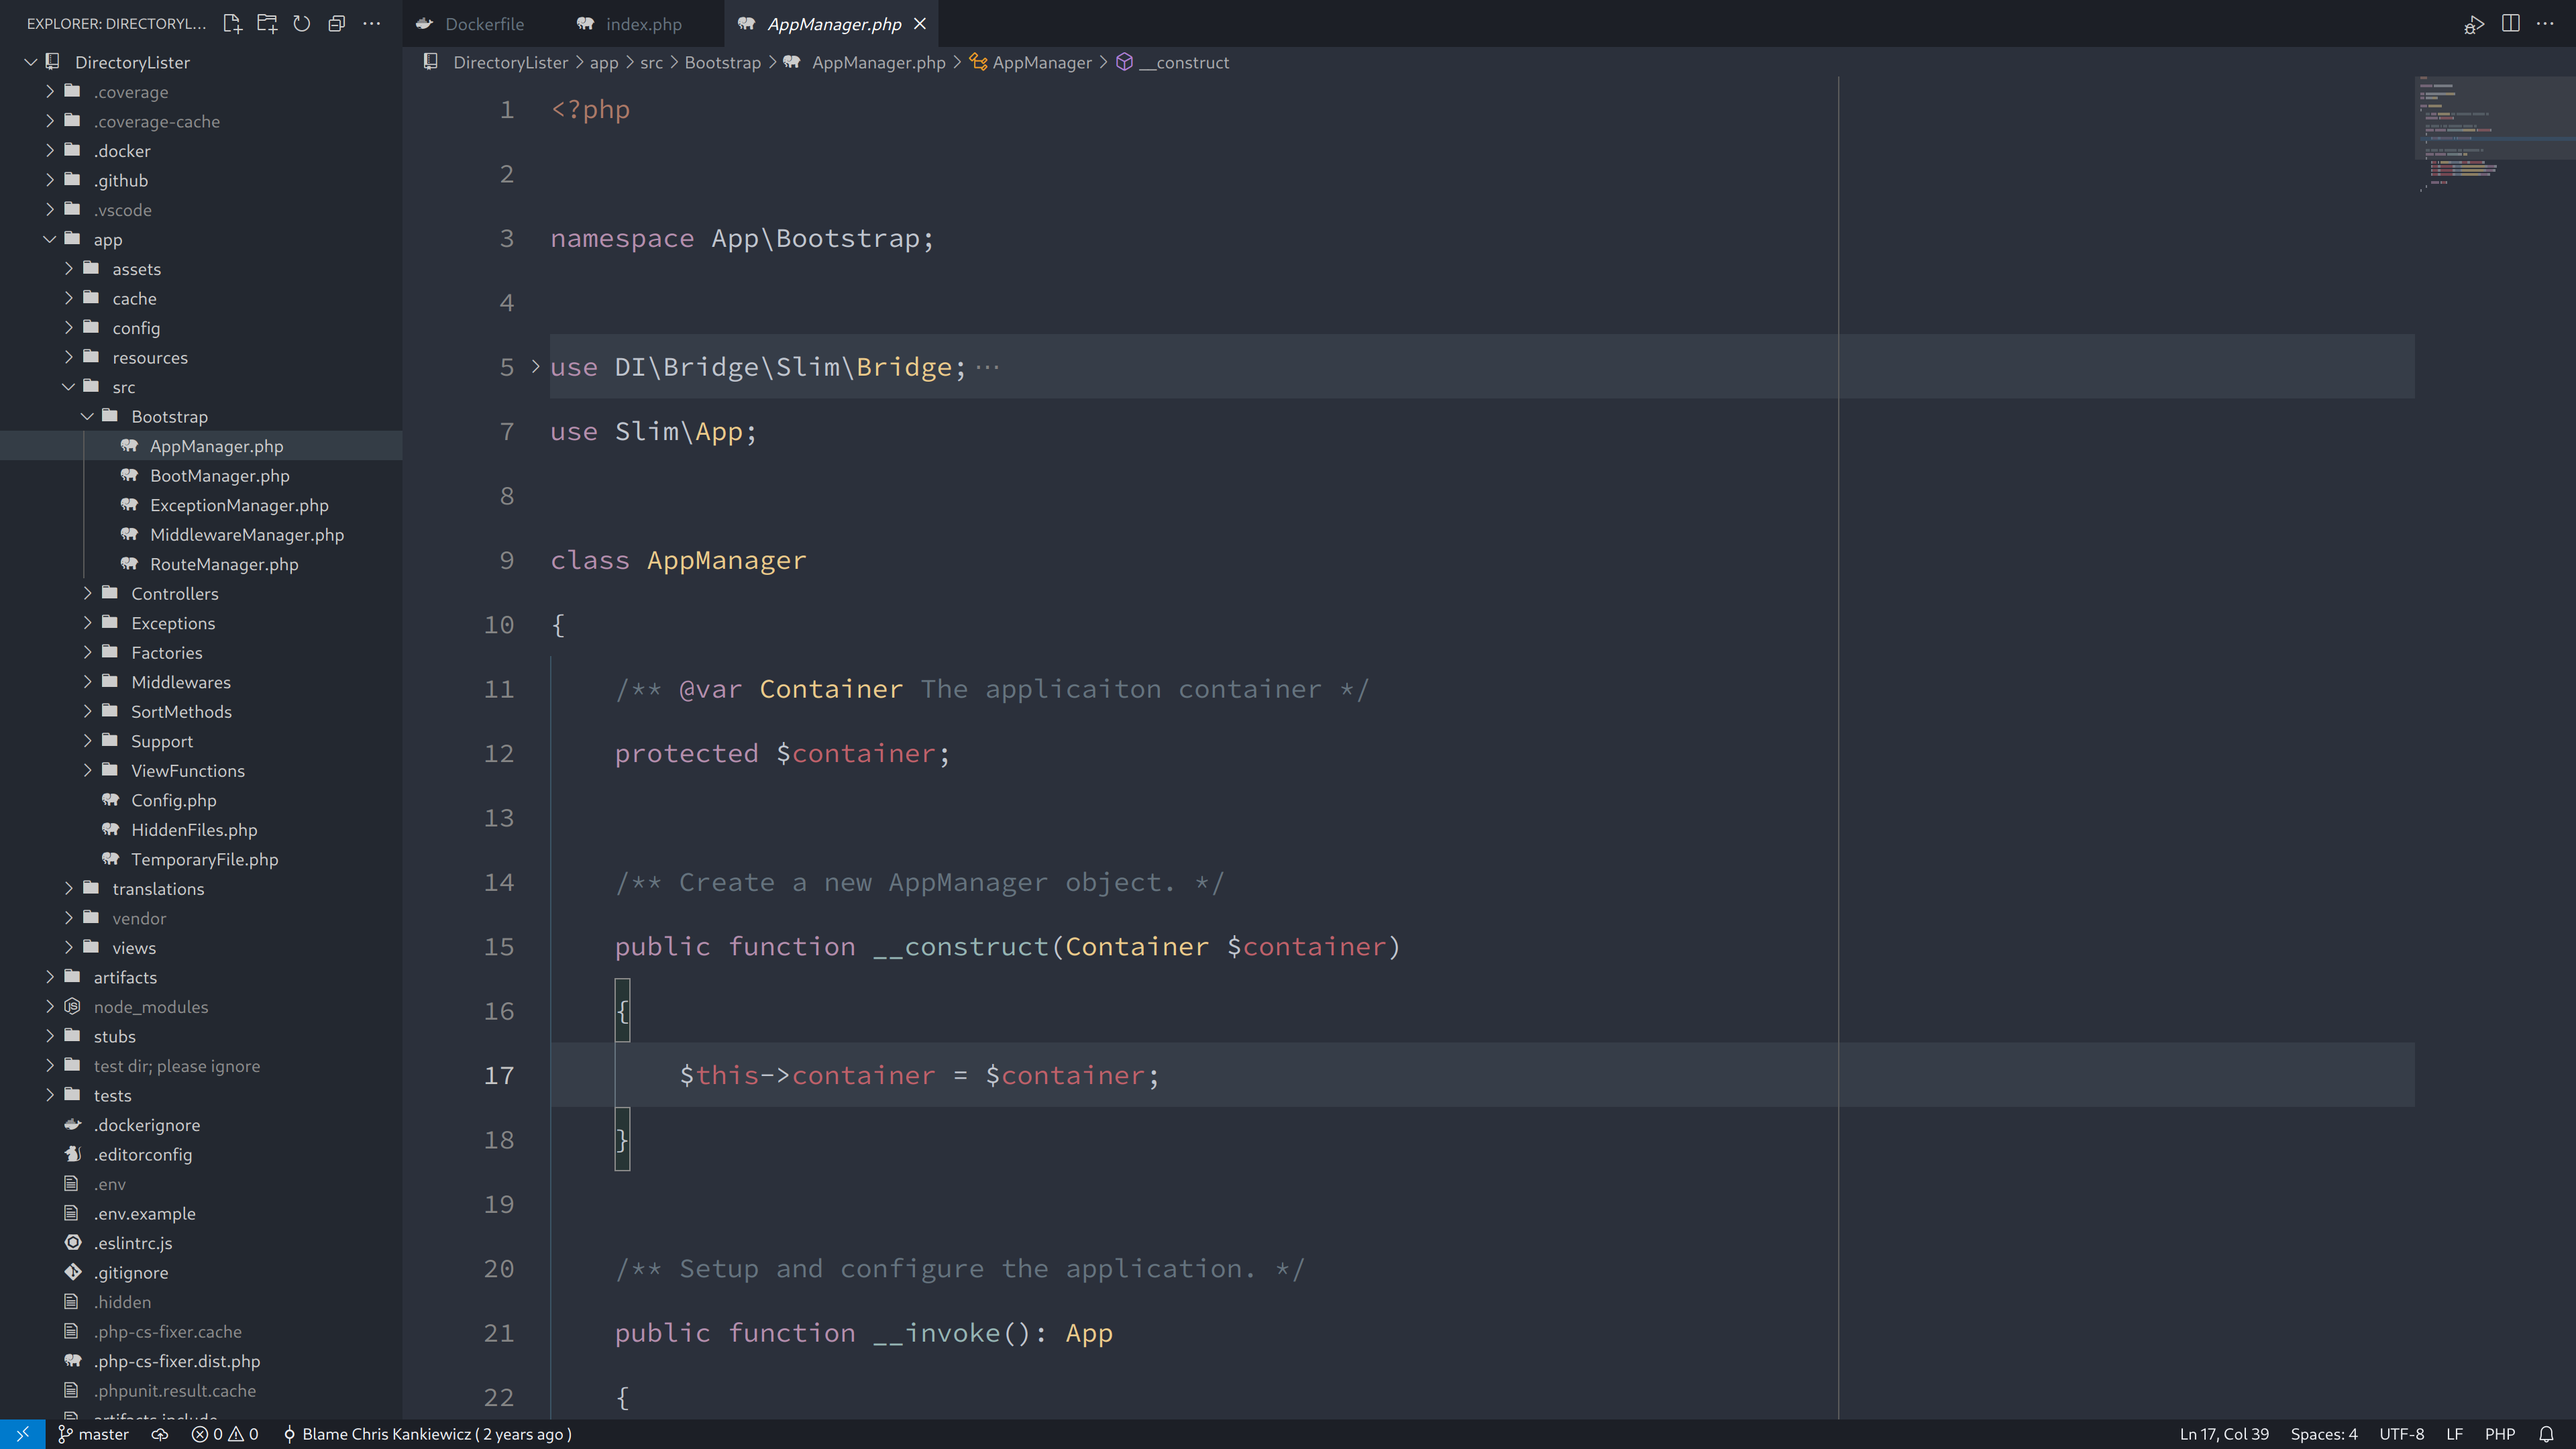
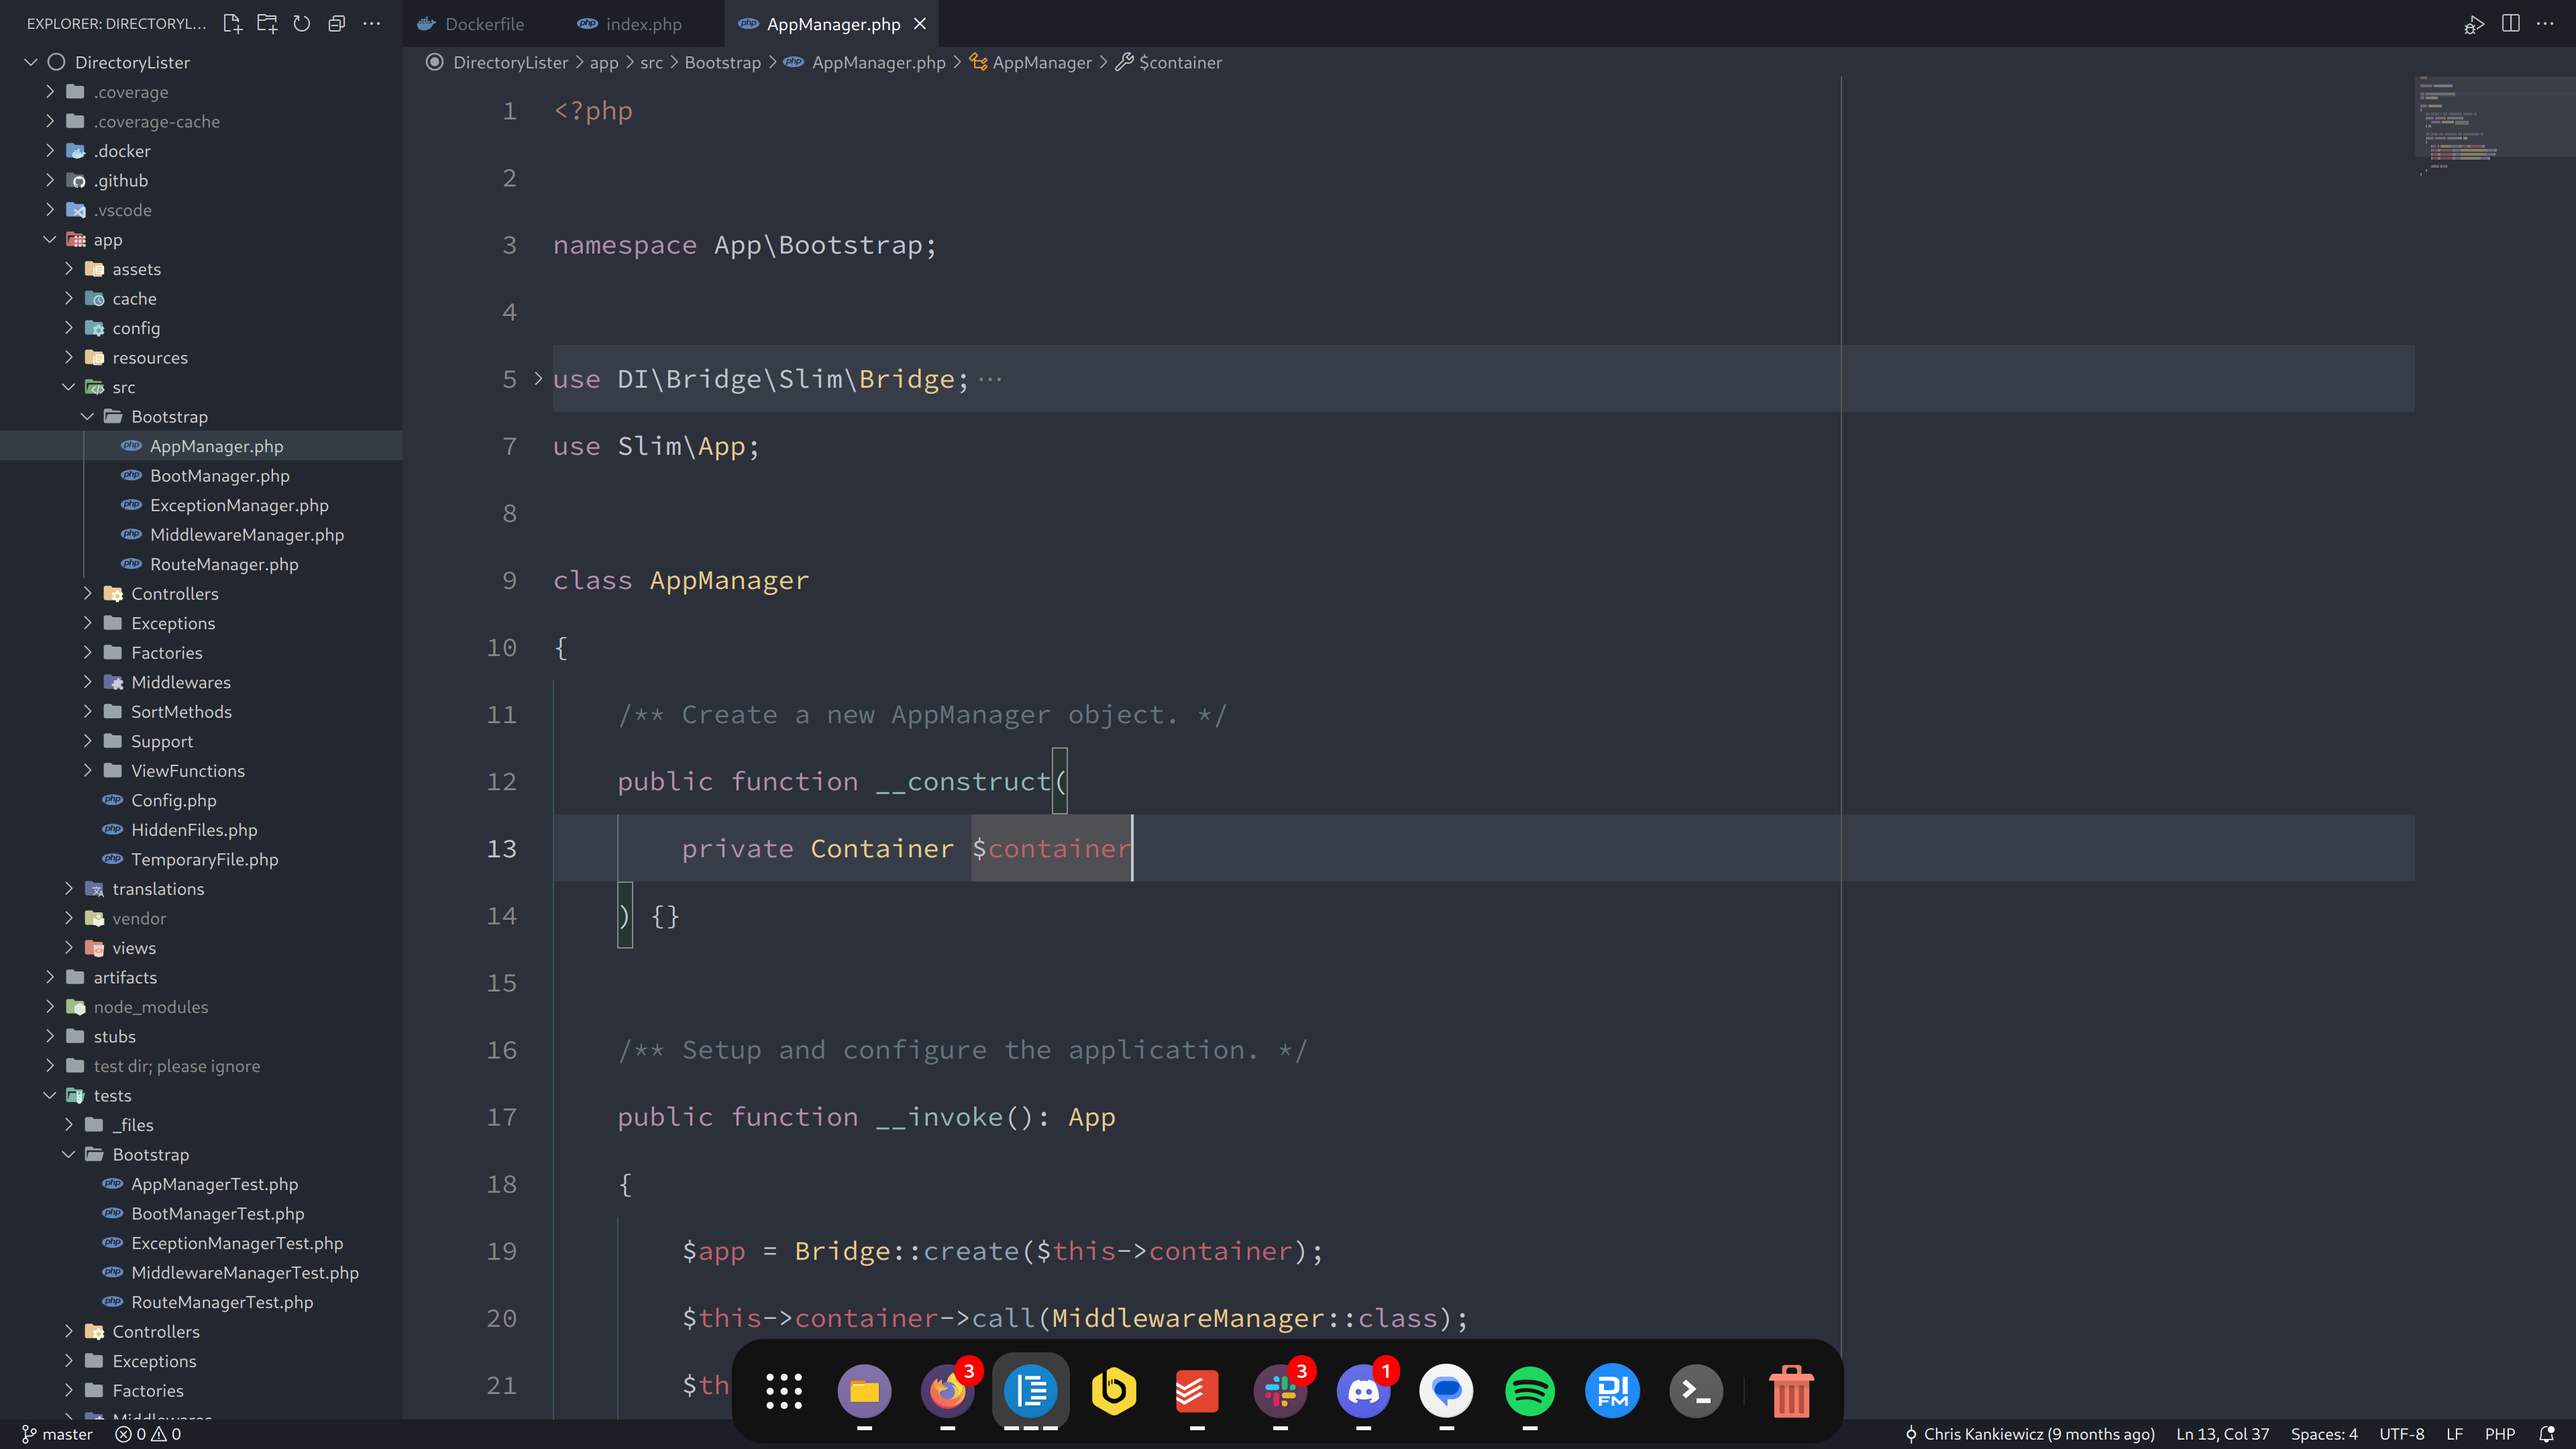
Updated editor section

diff --git a/README.md b/README.md
@@ -40,7 +40,7 @@ I use [Arch Linux](https://archlinux.org) as my daily driver with the [GNOME](ht
 Editor
 ------
 
-For software development I use [Visual Studio Code](https://code.visualstudio.com) with the [Spacegray VSCode](https://marketplace.visualstudio.com/items?itemName=ionutvmi.spacegray-vscode) theme and the [file-icons](https://marketplace.visualstudio.com/items?itemName=file-icons.file-icons) extension with a minimal UI to help me maintain focus on the code.
+For software development I use the Arch Linux open source build of [Visual Studio Code](https://code.visualstudio.com) with the [Spacegray VSCode](https://marketplace.visualstudio.com/items?itemName=ionutvmi.spacegray-vscode) theme and the [Material Icon Theme](https://marketplace.visualstudio.com/items?itemName=PKief.material-icon-theme) icon pack with a minimal UI to help me maintain focus on the code.
 
 ![Visual Studio Code](images/visual-studio-code.png)
 
@@ -56,7 +56,6 @@ The following are some (but not all) of the extensions I use on a daily basis.
   - [Markdown All in One](https://marketplace.visualstudio.com/items?itemName=yzhang.markdown-all-in-one)
   - [File Utils](https://marketplace.visualstudio.com/items?itemName=sleistner.vscode-fileutils)
   - [new-file](https://marketplace.visualstudio.com/items?itemName=fnando.new-file)
-  - [Bookmarks](https://marketplace.visualstudio.com/items?itemName=alefragnani.Bookmarks)
   - [Todo Tree](https://marketplace.visualstudio.com/items?itemName=Gruntfuggly.todo-tree)	
   - [CodeSnap](https://marketplace.visualstudio.com/items?itemName=adpyke.codesnap)
 
@@ -64,8 +63,6 @@ The following are some (but not all) of the extensions I use on a daily basis.
 
   - [PHP Intelephense](https://marketplace.visualstudio.com/items?itemName=bmewburn.vscode-intelephense-client)
   - [PHP Namespace Resolver](https://marketplace.visualstudio.com/items?itemName=MehediDracula.php-namespace-resolver)
-  - [PHP Add Property](https://marketplace.visualstudio.com/items?itemName=kotfire.php-add-property)
-  - [PHP DocBlocker](https://marketplace.visualstudio.com/items?itemName=neilbrayfield.php-docblocker)
   - [laravel intellisense](https://marketplace.visualstudio.com/items?itemName=mohamedbenhida.laravel-intellisense)
   - [laravel-blade](https://marketplace.visualstudio.com/items?itemName=cjhowe7.laravel-blade)
   - [Simple PHP CS Fixer 3](https://marketplace.visualstudio.com/items?itemName=PHLAK.simple-php-cs-fixer-3)
